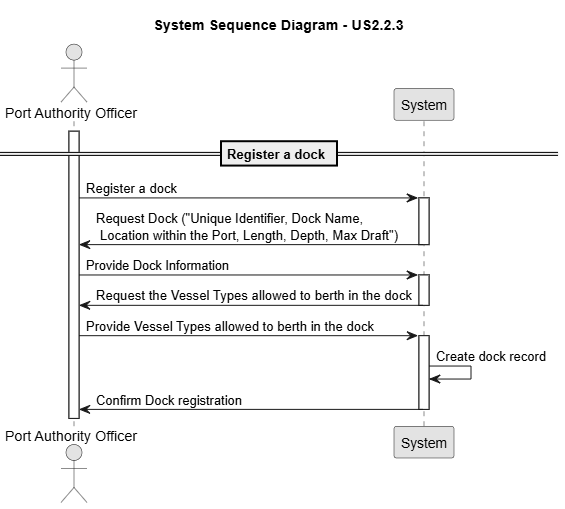
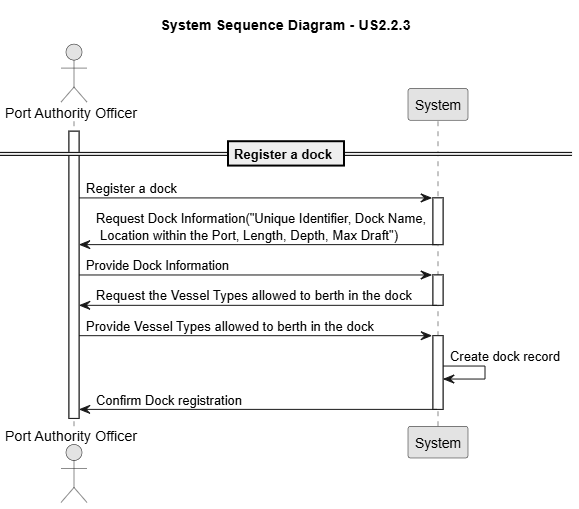
Documentation of 2.2.4 us started #5

diff --git a/docs/sprintA/us2.2.4/readme.md b/docs/sprintA/us2.2.4/readme.md
@@ -1,0 +1,43 @@
+# US 2.2.4
+
+## 1. Context
+
+*The Port Authority needs to maintain accurate and up-to-date information about storage areas within the port to ensure efficient allocation of (un)loading and storage operations. Each storage area must be clearly identified and characterized by its type, location, and capacity, since this information directly impacts operational planning.*
+
+## 2. Requirements
+
+**US 2.2.4** As a Port Authority Officer, I want to register and update storage areas, so that (un)loading and storage operations can be assigned to the correct locations.
+
+**Acceptance Criteria:**
+
+- Each storage area must have a unique identifier, type (e.g., yard, warehouse), and location within the port.
+
+- Storage areas must specify maximum capacity (in TEUs) and current occupancy.
+
+- By default, a storage area serves the entire port (i.e., all docks). However, some storage areas (namely yards) may be constrained to serve only a few docks, usually the closest ones.
+
+- Complementary information, such as the distance between docks and storage areas, must be manually recorded to support future logistics planning and optimization.
+
+- Updates to storage areas must not allow the current occupancy to exceed maximum capacity.
+
+**Dependencies/References:**
+
+*There are no dependencies with other US's.*
+
+**Forum Insight:**
+
+>> My question is if the distance that he must insert is to all the docks., it means, if the port has 5 docks he must insert 5 distances?
+> 
+> If the storage area serves all docks, you need to know those distances.
+
+>> Other question is if it's necessary to keep the distance between storage areas.
+> 
+> By the moment, that is not necessary.
+
+
+## 3. Analysis
+
+Record Registration
+
+![System Sequence Diagram ](images/system-sequence-diagram-US2.2.4.png)
+

diff --git a/docs/sprintA/us2.2.3/readme.md b/docs/sprintA/us2.2.3/readme.md
@@ -1,4 +1,3 @@
-
 # US 2.2.3
 
 ## 1. Context
@@ -7,7 +6,7 @@
 
 ## 2. Requirements
 
-**US 2.2.2** As a Port Authority Officer, I want to register and update docks, so that the system accurately reflects the docking capacity of the port.
+**US 2.2.3** As a Port Authority Officer, I want to register and update docks, so that the system accurately reflects the docking capacity of the port.
 
 **Acceptance Criteria:**
 